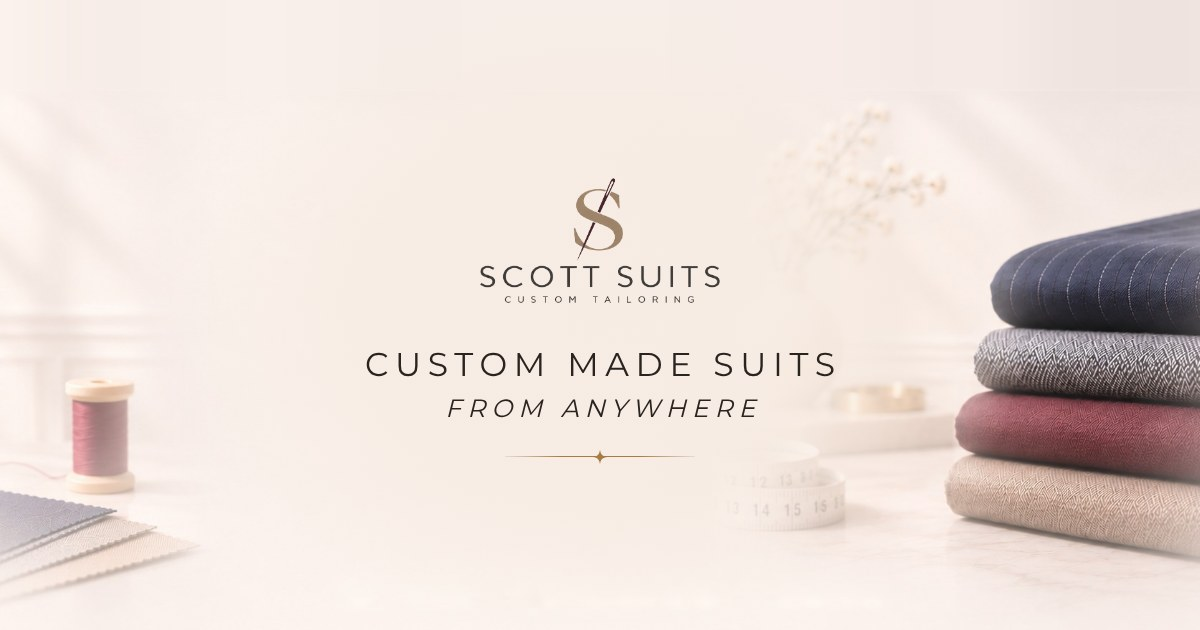
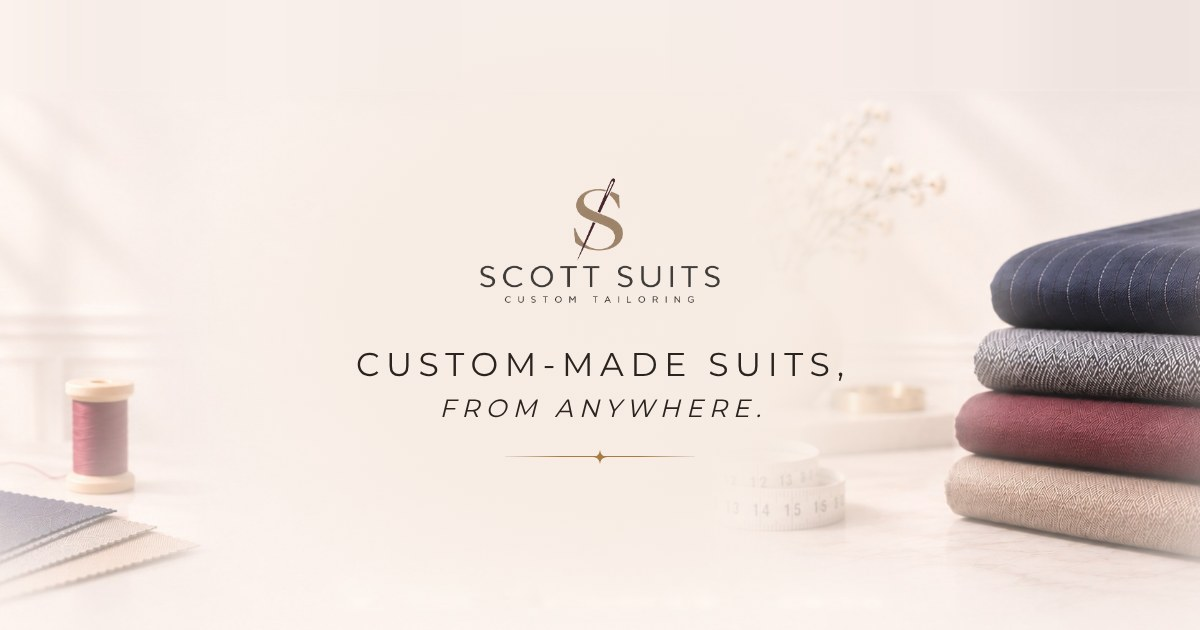
Share picture uses the exact landing line: Custom-made suits, from anywhere.
Claude-Session: https://claude.ai/code/session_01Y2WUq3wigk9YwLJu8bp9zi

Changed region(s): [[0.2775, 0.5429, 0.7092, 0.6032], [0.37, 0.6333, 0.6475, 0.6635]]

diff --git a/fabrics.html b/fabrics.html
@@ -22,14 +22,14 @@
 <meta property="og:title" content="Scott's Suits: Wool Suit Fabrics">
 <meta property="og:description" content="Scott's Suits are made from fine wool suiting, much of it from Italian mills: soft, breathable, drapes smoothly and resists creases.">
 <meta property="og:url" content="https://scottssuits.com/fabrics.html">
-<meta property="og:image" content="https://scottssuits.com/assets/share-image.jpg?v=20261119cream">
-<meta property="og:image:secure_url" content="https://scottssuits.com/assets/share-image.jpg?v=20261119cream">
+<meta property="og:image" content="https://scottssuits.com/assets/share-image.jpg?v=20261119cream2">
+<meta property="og:image:secure_url" content="https://scottssuits.com/assets/share-image.jpg?v=20261119cream2">
 <meta property="og:image:type" content="image/jpeg">
 <meta property="og:image:width" content="1200">
 <meta property="og:image:height" content="630">
-<meta property="og:image:alt" content="Scott Suits logo with the words Custom made suits from anywhere, beside a stack of suit fabrics">
+<meta property="og:image:alt" content="Scott Suits logo with the words Custom-made suits, from anywhere, beside a stack of suit fabrics">
 <meta name="twitter:card" content="summary_large_image">
-<meta name="twitter:image" content="https://scottssuits.com/assets/share-image.jpg?v=20261119cream">
+<meta name="twitter:image" content="https://scottssuits.com/assets/share-image.jpg?v=20261119cream2">
 <!-- Linked from the nav "Fabrics" item. Uses the homepage's own stylesheet,
      nav and hero layout so it looks like the rest of the site; no main.js,
      so the nav buttons here are plain links back to the homepage. -->

diff --git a/index.html b/index.html
@@ -130,14 +130,14 @@
 <meta property="og:title" content="Scott's Suits: Custom Made Suits From Anywhere">
 <meta property="og:description" content="Custom made suits from anywhere. Designed by you online, made to your measurements, from $350.">
 <meta property="og:url" content="https://scottssuits.com/">
-<meta property="og:image" content="https://scottssuits.com/assets/share-image.jpg?v=20261119cream">
-<meta property="og:image:secure_url" content="https://scottssuits.com/assets/share-image.jpg?v=20261119cream">
+<meta property="og:image" content="https://scottssuits.com/assets/share-image.jpg?v=20261119cream2">
+<meta property="og:image:secure_url" content="https://scottssuits.com/assets/share-image.jpg?v=20261119cream2">
 <meta property="og:image:type" content="image/jpeg">
 <meta property="og:image:width" content="1200">
 <meta property="og:image:height" content="630">
-<meta property="og:image:alt" content="Scott Suits logo with the words Custom made suits from anywhere, beside a stack of suit fabrics">
+<meta property="og:image:alt" content="Scott Suits logo with the words Custom-made suits, from anywhere, beside a stack of suit fabrics">
 <meta name="twitter:card" content="summary_large_image">
-<meta name="twitter:image" content="https://scottssuits.com/assets/share-image.jpg?v=20261119cream">
+<meta name="twitter:image" content="https://scottssuits.com/assets/share-image.jpg?v=20261119cream2">
 <link rel="stylesheet" href="./style.css?v=20261118vest12">
 <script data-goatcounter="https://scottssuits.goatcounter.com/count" async src="//gc.zgo.at/count.js"></script>
 <script src="./brand.js?v=20261119cmsuits"></script>

diff --git a/faq.html b/faq.html
@@ -22,14 +22,14 @@
 <meta property="og:title" content="Scott's Suits: FAQ">
 <meta property="og:description" content="Common questions about ordering from Scott's Suits: prices, fabrics, measurements, alterations and delivery, answered.">
 <meta property="og:url" content="https://scottssuits.com/faq.html">
-<meta property="og:image" content="https://scottssuits.com/assets/share-image.jpg?v=20261119cream">
-<meta property="og:image:secure_url" content="https://scottssuits.com/assets/share-image.jpg?v=20261119cream">
+<meta property="og:image" content="https://scottssuits.com/assets/share-image.jpg?v=20261119cream2">
+<meta property="og:image:secure_url" content="https://scottssuits.com/assets/share-image.jpg?v=20261119cream2">
 <meta property="og:image:type" content="image/jpeg">
 <meta property="og:image:width" content="1200">
 <meta property="og:image:height" content="630">
-<meta property="og:image:alt" content="Scott Suits logo with the words Custom made suits from anywhere, beside a stack of suit fabrics">
+<meta property="og:image:alt" content="Scott Suits logo with the words Custom-made suits, from anywhere, beside a stack of suit fabrics">
 <meta name="twitter:card" content="summary_large_image">
-<meta name="twitter:image" content="https://scottssuits.com/assets/share-image.jpg?v=20261119cream">
+<meta name="twitter:image" content="https://scottssuits.com/assets/share-image.jpg?v=20261119cream2">
 <!-- Plain-text answers to the questions shoppers (and AI assistants like
      ChatGPT, Claude and Perplexity) ask about Scott's Suits, so search and
      AI tools can quote prices and details straight from the page. The

diff --git a/contact.html b/contact.html
@@ -22,14 +22,14 @@
 <meta property="og:title" content="Scott's Suits: Contact">
 <meta property="og:description" content="Contact Scott's Suits by email with questions about custom suits, fabrics, fit or your order.">
 <meta property="og:url" content="https://scottssuits.com/contact.html">
-<meta property="og:image" content="https://scottssuits.com/assets/share-image.jpg?v=20261119cream">
-<meta property="og:image:secure_url" content="https://scottssuits.com/assets/share-image.jpg?v=20261119cream">
+<meta property="og:image" content="https://scottssuits.com/assets/share-image.jpg?v=20261119cream2">
+<meta property="og:image:secure_url" content="https://scottssuits.com/assets/share-image.jpg?v=20261119cream2">
 <meta property="og:image:type" content="image/jpeg">
 <meta property="og:image:width" content="1200">
 <meta property="og:image:height" content="630">
-<meta property="og:image:alt" content="Scott Suits logo with the words Custom made suits from anywhere, beside a stack of suit fabrics">
+<meta property="og:image:alt" content="Scott Suits logo with the words Custom-made suits, from anywhere, beside a stack of suit fabrics">
 <meta name="twitter:card" content="summary_large_image">
-<meta name="twitter:image" content="https://scottssuits.com/assets/share-image.jpg?v=20261119cream">
+<meta name="twitter:image" content="https://scottssuits.com/assets/share-image.jpg?v=20261119cream2">
 <!-- Uses the site's own style.css (Montserrat, colors, nav, footer) so it
      reads as part of the site. Only the small contact list below is
      page-specific; no main.js, so the nav here is just the logo + a way

diff --git a/privacy.html b/privacy.html
@@ -22,14 +22,14 @@
 <meta property="og:title" content="Scott's Suits: Privacy Policy">
 <meta property="og:description" content="How Scott's Suits collects and uses your information.">
 <meta property="og:url" content="https://scottssuits.com/privacy.html">
-<meta property="og:image" content="https://scottssuits.com/assets/share-image.jpg?v=20261119cream">
-<meta property="og:image:secure_url" content="https://scottssuits.com/assets/share-image.jpg?v=20261119cream">
+<meta property="og:image" content="https://scottssuits.com/assets/share-image.jpg?v=20261119cream2">
+<meta property="og:image:secure_url" content="https://scottssuits.com/assets/share-image.jpg?v=20261119cream2">
 <meta property="og:image:type" content="image/jpeg">
 <meta property="og:image:width" content="1200">
 <meta property="og:image:height" content="630">
-<meta property="og:image:alt" content="Scott Suits logo with the words Custom made suits from anywhere, beside a stack of suit fabrics">
+<meta property="og:image:alt" content="Scott Suits logo with the words Custom-made suits, from anywhere, beside a stack of suit fabrics">
 <meta name="twitter:card" content="summary_large_image">
-<meta name="twitter:image" content="https://scottssuits.com/assets/share-image.jpg?v=20261119cream">
+<meta name="twitter:image" content="https://scottssuits.com/assets/share-image.jpg?v=20261119cream2">
 <!-- Standalone page (linked from Google sign-in's consent screen and the site
      footer). Uses the site's colors inline instead of style.css so none of the
      designer's layout rules apply here. -->
